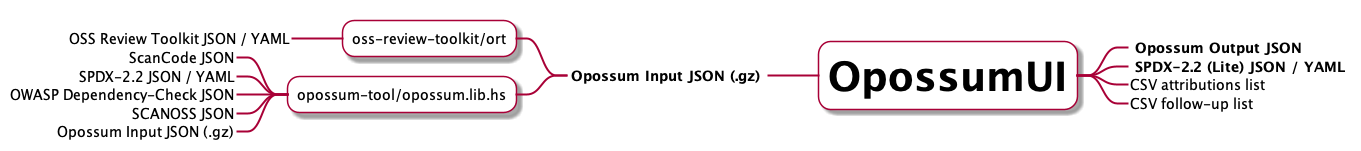
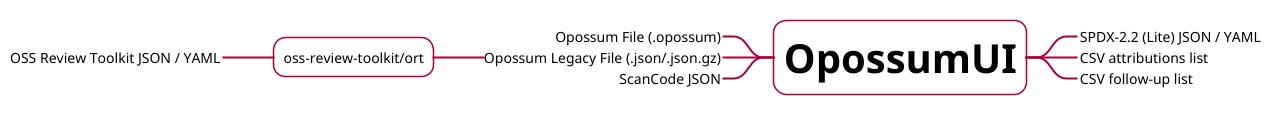
docs: integrate review suggestions

diff --git a/README.md b/README.md
@@ -18,7 +18,7 @@ OpossumUI is a tool to
 ## Features
 
 - use of multiple scanners (open source and/or proprietary).
-- currently integrates with OSS Review Toolkit, FOSSLight and ScanCode.
+- currently integrates with OSS Review Toolkit and ScanCode.
 - unified interface for browsing scanner evidence.
 - simple navigation through the codebase’s file tree.
 - create attributions for individual files or groups.
@@ -53,17 +53,7 @@ light-weight app for review of compliance information for large codebases.
 OpossumUI can be used with reports generated by different analysis tools and also supports exporting review results in
 various different formats.
 
-Next to `.opossum` files, OpossumUI supports the following formats:
-
-- ScanCode JSON
-- OSS Review Toolkit JSON/YAML
-- more to come
-
-OpossumUI can export:
-
-- SPDX-2.2 (Lite) JSON/YAML
-- CSV attributions lists
-- CSV follow-up lists
+![integration](./docs/integration.png)
 
 # Getting Started
 
@@ -76,9 +66,9 @@ For details of the file format, see [file formats](docs/FileFormats.md).
 
 ## Importing other file formats
 
-Legacy opossum files (`.json`/`.json.gz`) and output files produced by some supported scanners can be imported from
-within OpossumUI. Currently, the following scanner output file types can be directly imported:
+The following additional file types can be directly imported from inside OpossumUI:
 
+- Legacy opossum files (`.json`/`.json.gz`)
 - _ScanCode_ JSON files (`.json`)
 - more to come
 

diff --git a/USER_GUIDE.md b/USER_GUIDE.md
@@ -69,10 +69,10 @@ the _File_ menu with the same name).
 To import a legacy opossum file (`.json`/`.json.gz`) or a file produced by a scanner (e.g. a ScanCode Json file), click
 the _Import File_ item in the _File_ menu and select the desired file format from the submenu. You will be presented
 with a dialog window where you can select the file that you wish to import. Because OpossumUI converts this file into a
-new `.opossum` file as part of the import process, you will also be prompted to select where this file should be saved.
-Clicking the _Import_ button converts the file into a new `.opossum` file and opens it in OpossumUI. Please note
-that edits made through OpossumUI are **ONLY** saved in this new `.opossum` file, **NOT** in the file you selected for
-import.
+new `.opossum` file as part of the import process, you will also be prompted to select where this new `.opossum` file
+should be saved. Clicking the _Import_ button converts the file into a new `.opossum` file and opens it in OpossumUI.
+Please note that edits made through OpossumUI are **ONLY** saved in this new `.opossum` file, **NOT** in the file you
+selected for import.
 
 ### Project Metadata
 
